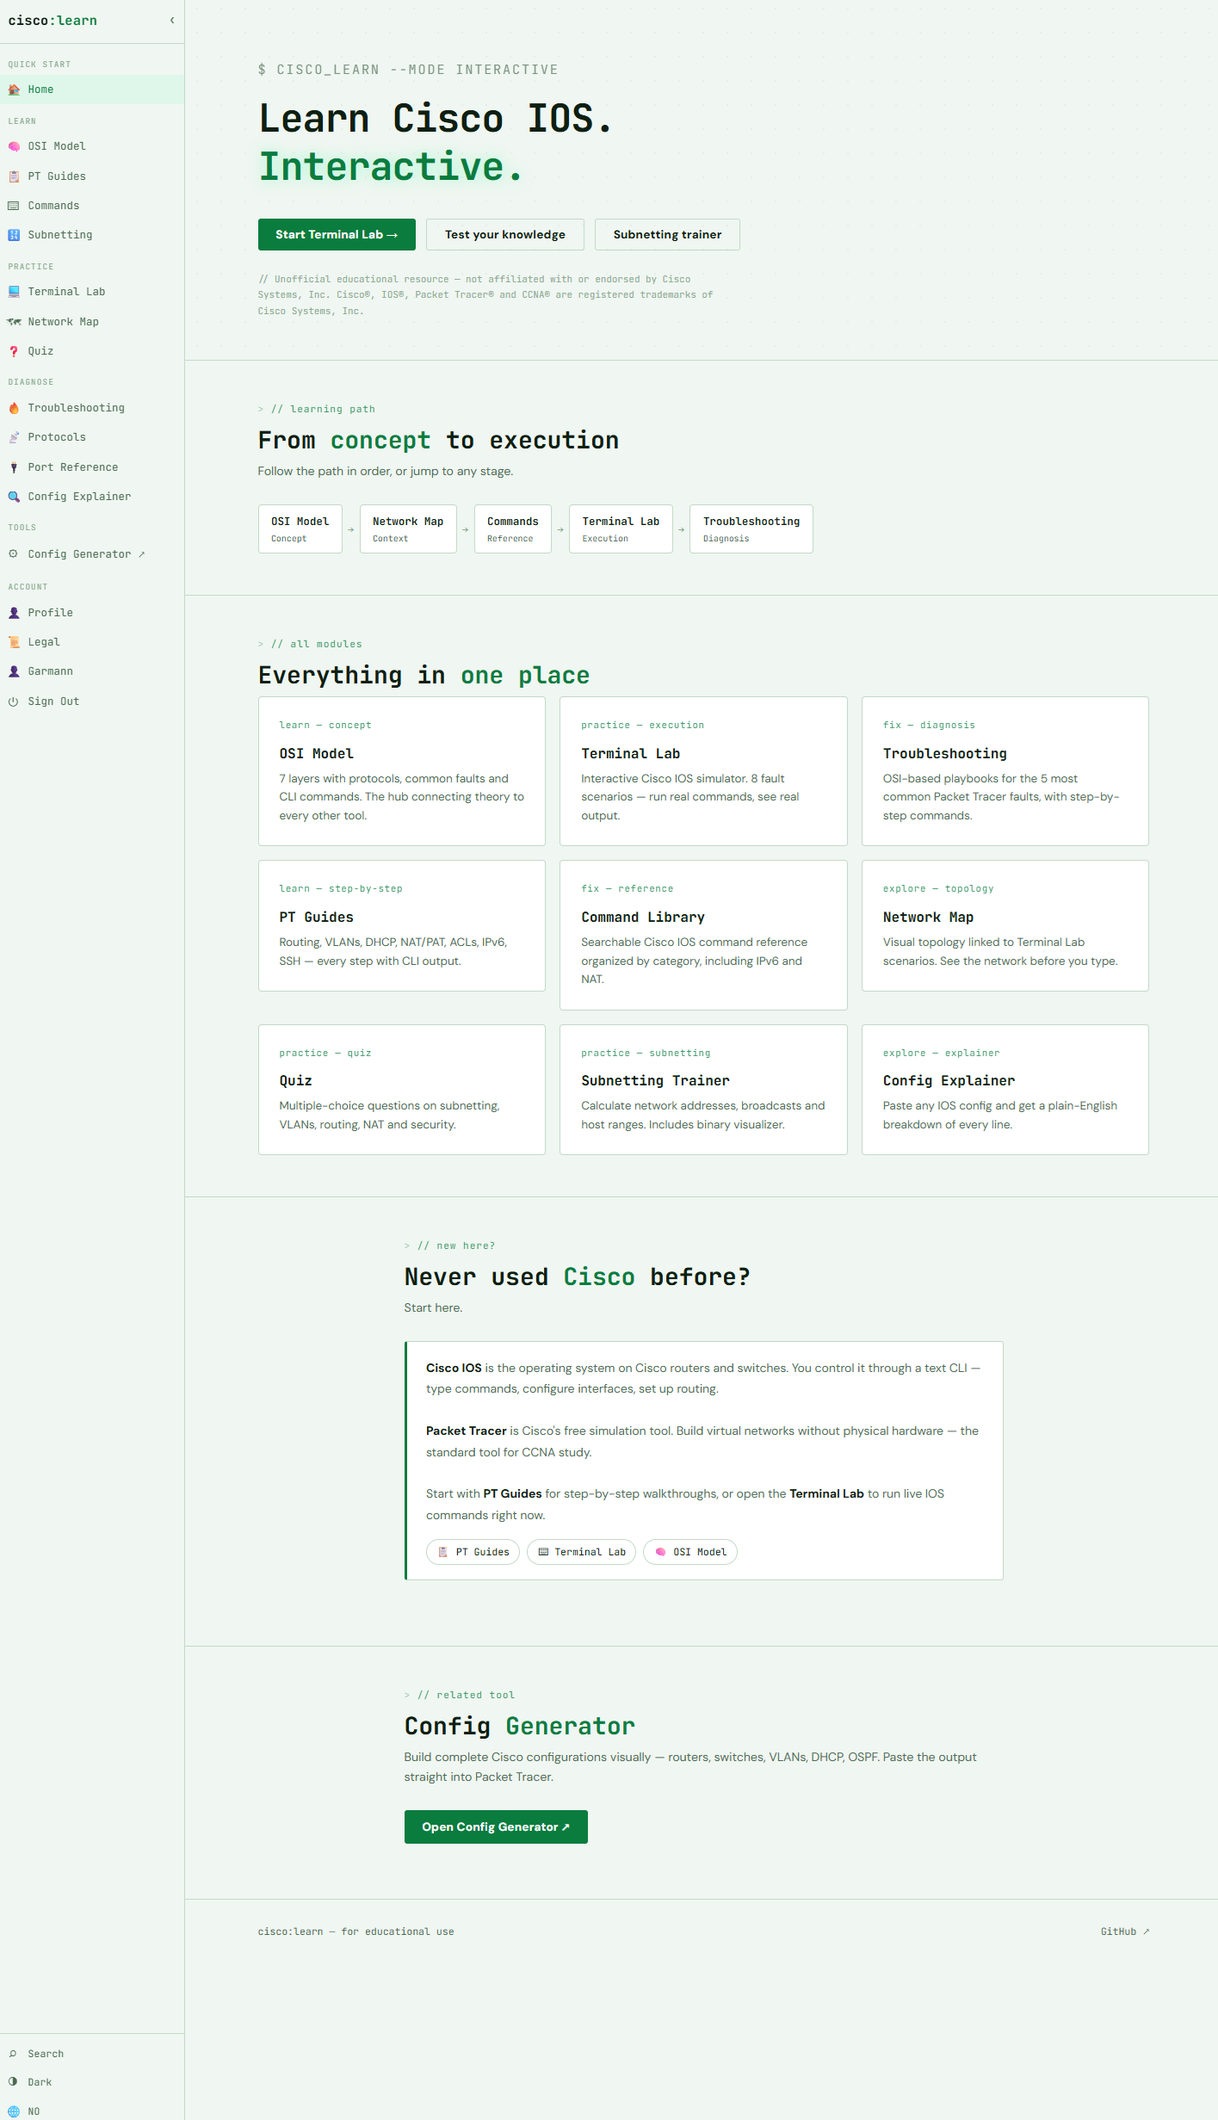
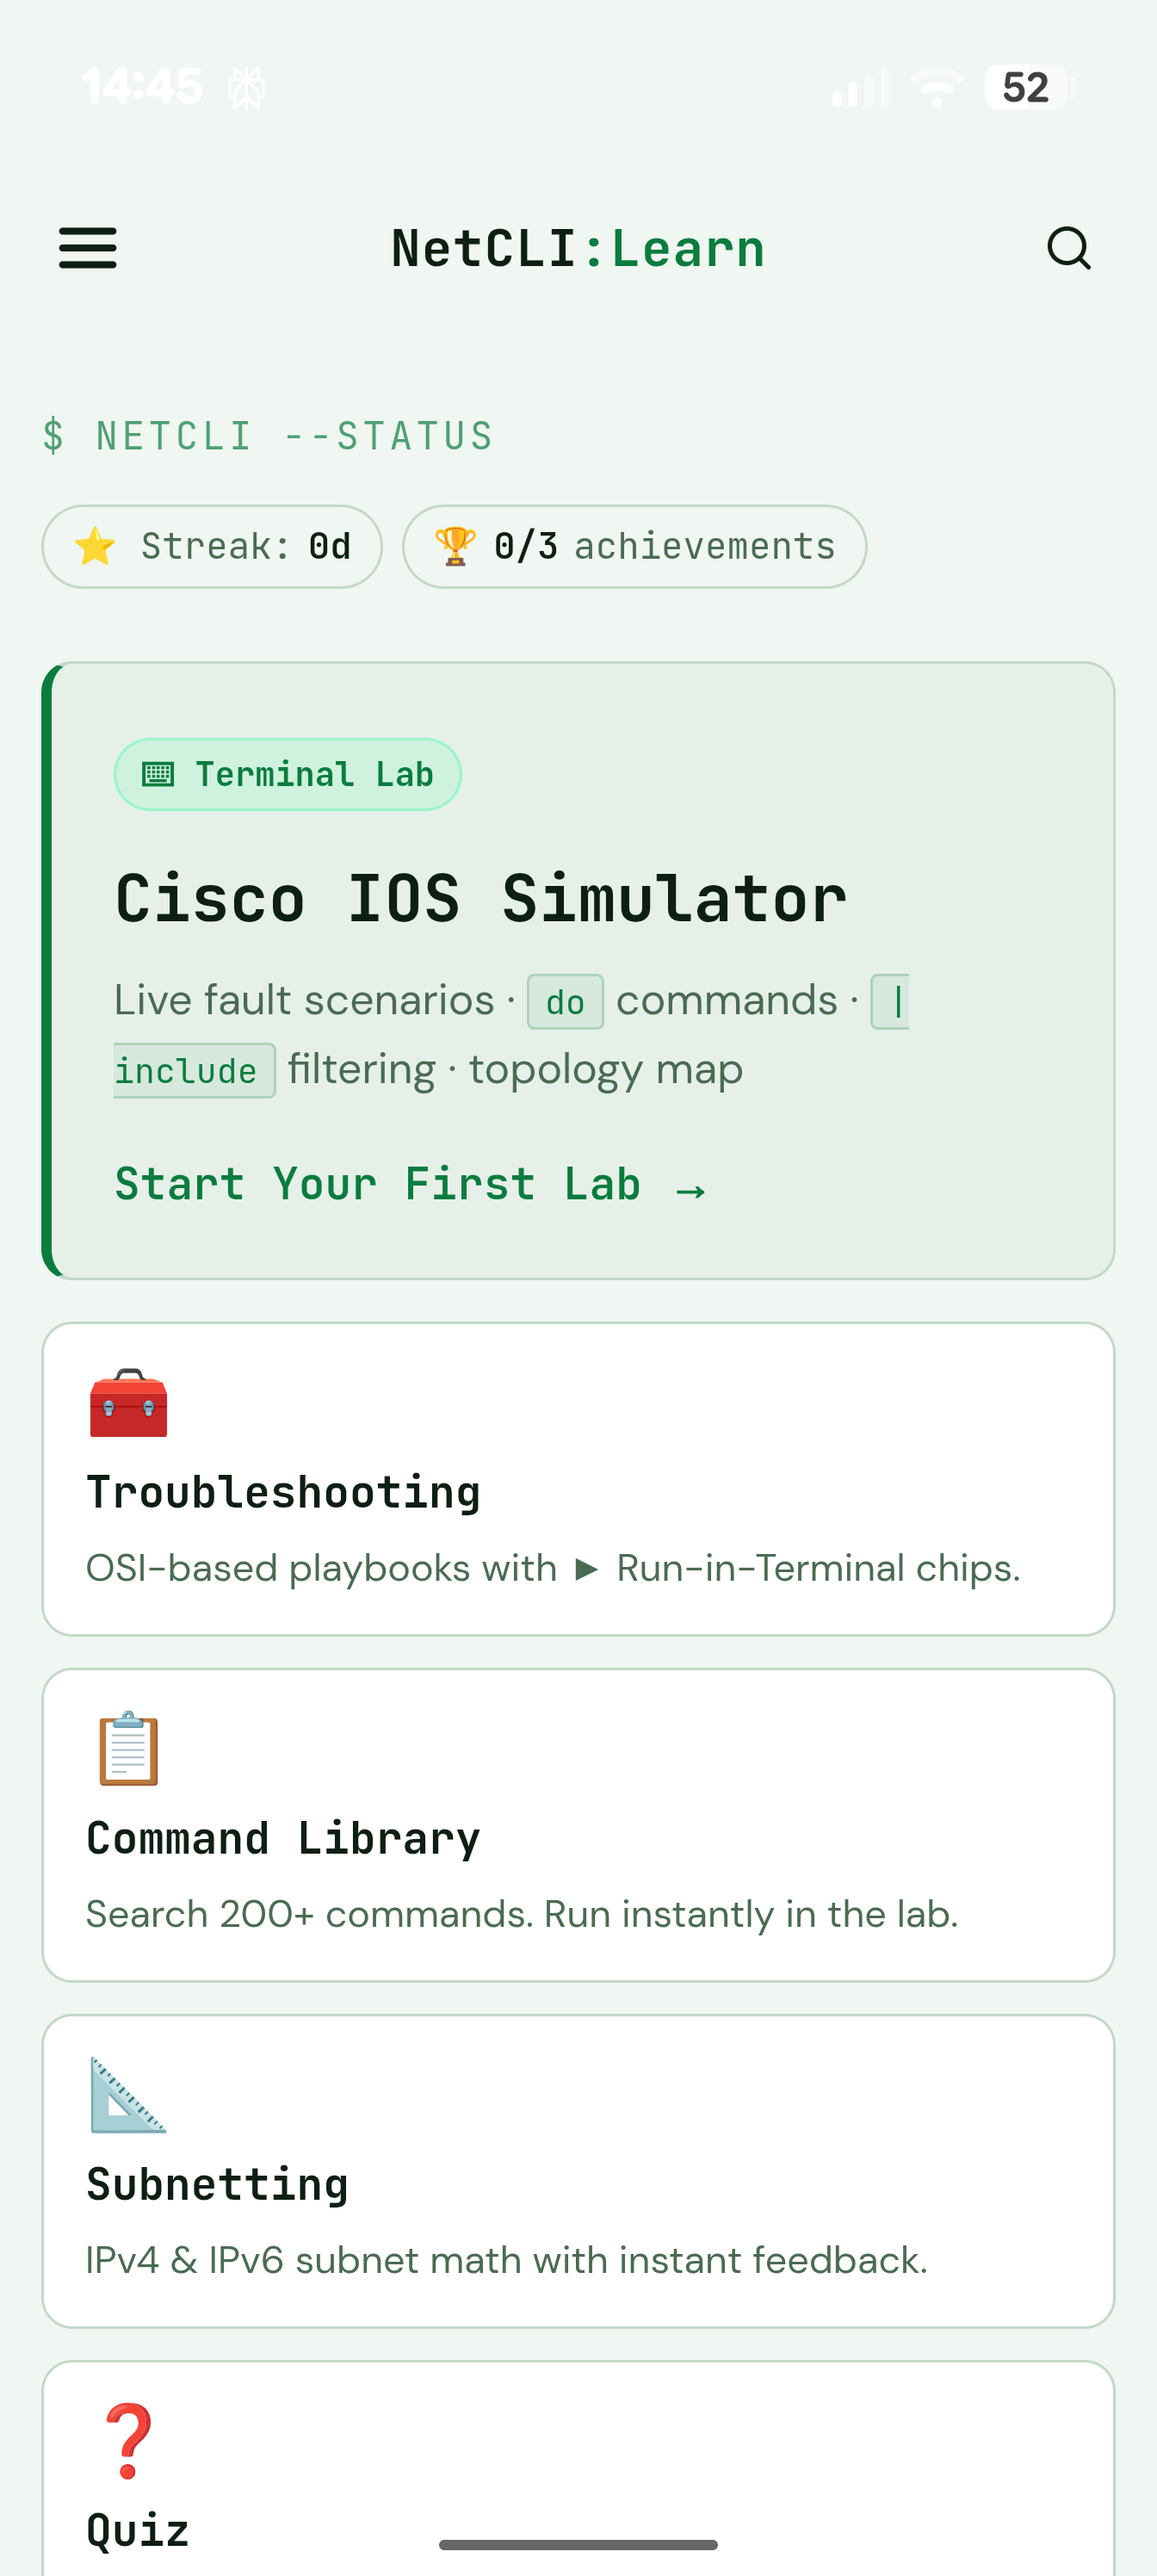
Use NetCLI app preview image

diff --git a/index.html b/index.html
@@ -361,6 +361,11 @@
       background: rgba(255, 255, 255, 0.04);
     }
 
+    .project-image-phone {
+      aspect-ratio: 4 / 3;
+      object-position: center 22%;
+    }
+
     .app-card h2 {
       color: #f8fafc;
       font-size: 1.05rem;
@@ -538,7 +543,7 @@
         </div>
 
         <div class="app-card">
-          <img class="project-image" src="assets/images/netcli-preview.png" alt="NetCLI og Cisco Learn forhåndsvisning" data-i18n-attr="alt:netcliImageAlt" />
+          <img class="project-image project-image-phone" src="assets/images/netcli-preview.png" alt="NetCLI app forhåndsvisning" data-i18n-attr="alt:netcliImageAlt" />
           <h2 data-i18n="appTitle">NetCLI for Android</h2>
           <p data-i18n="appDescription">
             En mobil app for praktisk CCNA- og nettverkslæring, laget for å gjøre repetisjon og kommandoøving mer tilgjengelig. Tilbakemeldinger finnes i Reddit-tråden.
@@ -604,7 +609,7 @@
         portfolioDescription: "Utvalgte prosjekter og produkter fra Schjoldr.",
         appTitle: "NetCLI for Android",
         appDescription: "En mobil app for praktisk CCNA- og nettverkslæring, laget for å gjøre repetisjon og kommandoøving mer tilgjengelig. Tilbakemeldinger finnes i Reddit-tråden.",
-        netcliImageAlt: "NetCLI og Cisco Learn forhåndsvisning",
+        netcliImageAlt: "NetCLI app forhåndsvisning",
         redditLink: "Reddit-tråd",
         appLinksLabel: "NetCLI lenker",
         nodalTitle: "NodalDoc",
@@ -626,7 +631,7 @@
         portfolioDescription: "Selected projects and products from Schjoldr.",
         appTitle: "NetCLI for Android",
         appDescription: "A mobile app for practical CCNA networking study, built to make review and command practice easier to access. User feedback is available in the Reddit thread.",
-        netcliImageAlt: "NetCLI and Cisco Learn preview",
+        netcliImageAlt: "NetCLI app preview",
         redditLink: "Reddit thread",
         appLinksLabel: "NetCLI links",
         nodalTitle: "NodalDoc",
